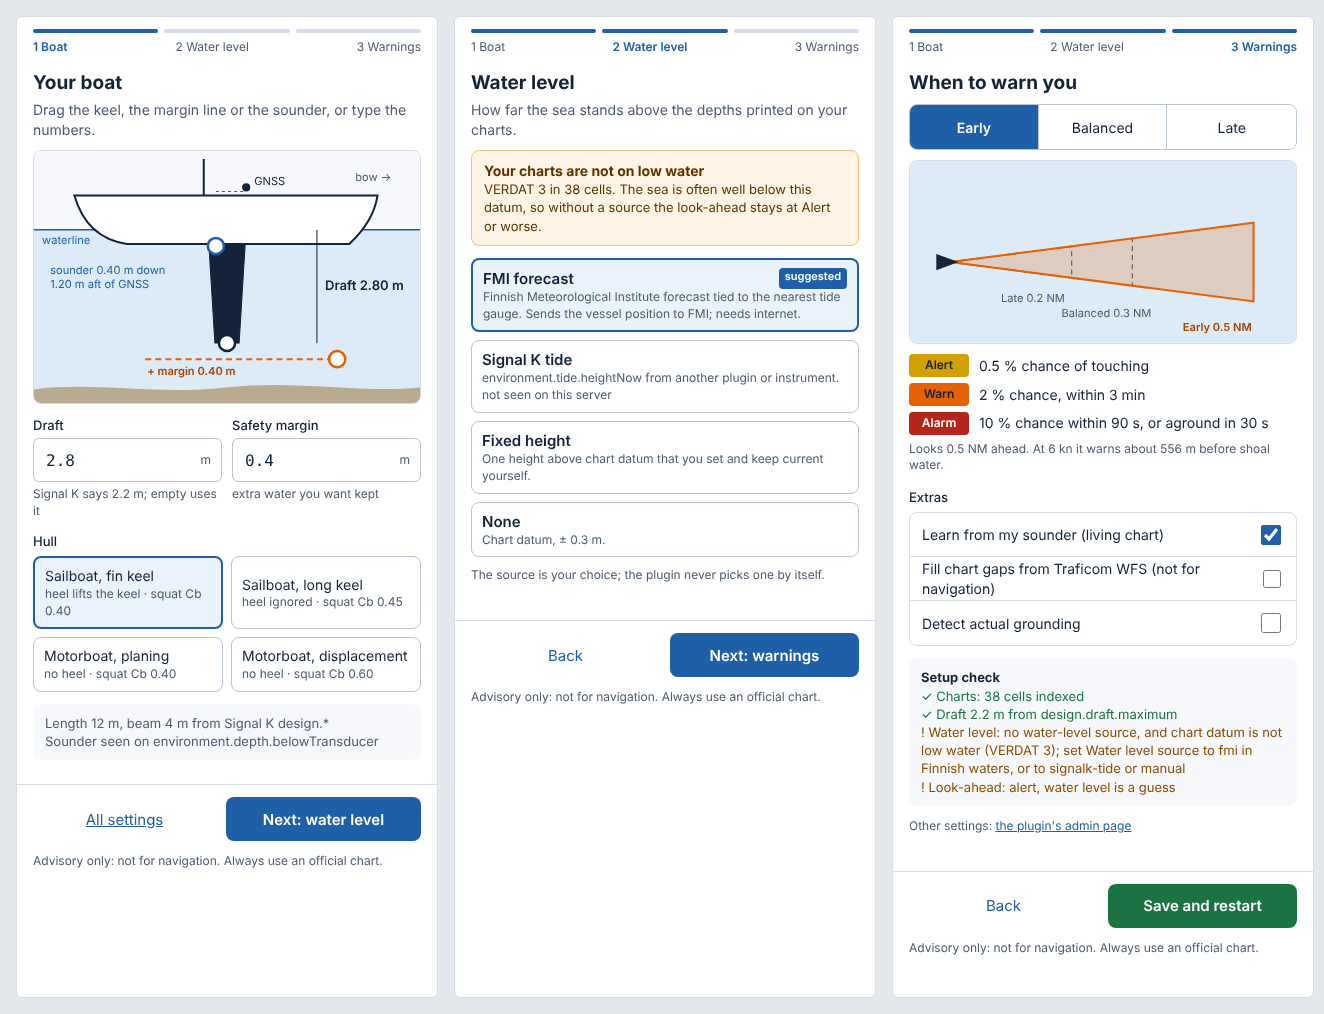
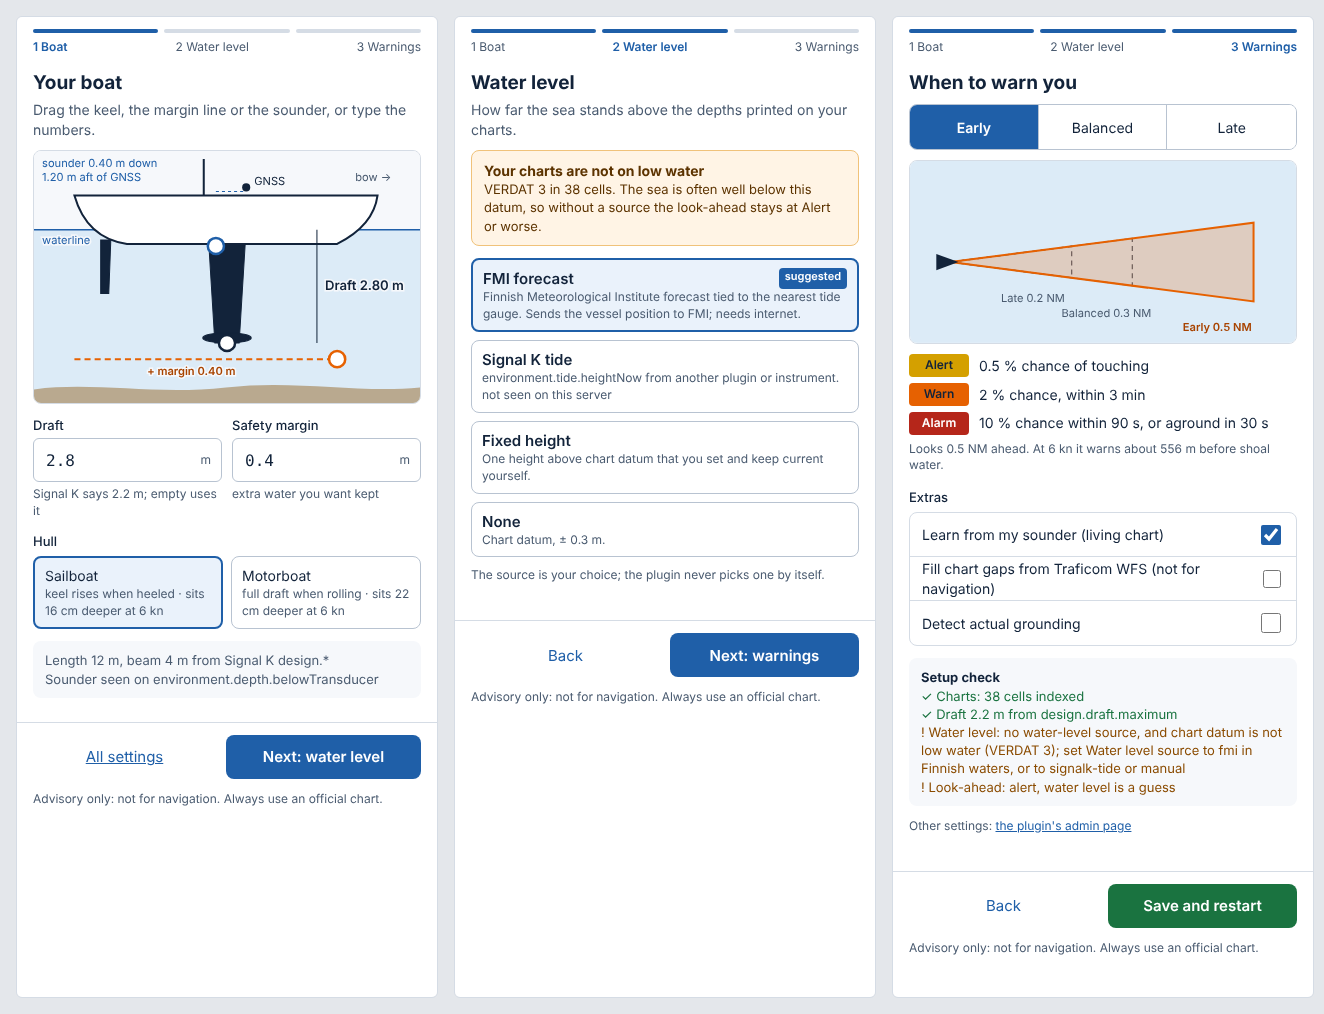
Offer two hulls, sailboat and motorboat, and say what they change
The model reads two things of a hull: squat Cb and whether heel lifts the
keel. Fin and long keels both rise with heel and differ by 2 cm of squat
at 6 kn, planing and displacement motorboats by Cb alone, so the four
choices become two. Each takes the more cautious value of the pair it
replaces: sailboat Cb 0.45 with heel lifting the keel, motorboat Cb 0.60
with heel ignored. Not set stays Cb 0.40 and no heel.

The setup panel's buttons say "keel rises when heeled" or "full draft when
rolling" and how many centimetres deeper the hull sits at 6 kn, and the
README explains heel and squat and why no planing lift is subtracted.

Claude-Session: https://claude.ai/code/session_019coAYjPbrjGTLyXvTkhftf

diff --git a/public/setup.js b/public/setup.js
@@ -140,25 +140,7 @@ function hullShape(hull, keelY, known) {
   const hb = VIEW.hullBottom;
   const mast = h("svg:line", { x1: 168, y1: 8, x2: 168, y2: VIEW.deck, stroke: "var(--ink)", "stroke-width": 2 });
   const rudder = (x, bottom) => h("svg:path", { d: `M${x - 4} ${hb - 4} L${x + 6} ${hb - 4} L${x + 4} ${bottom} L${x - 4} ${bottom} Z`, ...solid });
-  if (hull === "longKeel") {
-    return {
-      keelX: 190,
-      parts: [mast, hullBody(hb, false), h("svg:path", { d: `M100 ${hb} L265 ${hb} L240 ${keelY} L104 ${keelY} Z`, ...solid })]
-    };
-  }
-  if (hull === "planing") {
-    const bottom = Math.max(VIEW.water + 8, VIEW.water + (keelY - VIEW.water) * 0.45);
-    return {
-      keelX: 58,
-      parts: [
-        hullBody(bottom, true),
-        h("svg:path", { d: `M196 ${VIEW.deck} L214 26 L252 26 L262 ${VIEW.deck}`, fill: "none", stroke: "var(--ink)", "stroke-width": 2 }),
-        h("svg:path", { d: `M53 ${bottom} L63 ${bottom} L62 ${keelY - 10} L54 ${keelY - 10} Z`, ...solid }),
-        h("svg:ellipse", { cx: 58, cy: keelY - 5, rx: 4, ry: 5, ...solid })
-      ]
-    };
-  }
-  if (hull === "displacement") {
+  if (hull === "motorboat") {
     const bottom = Math.max(hb, VIEW.water + (keelY - VIEW.water) * 0.7);
     return {
       keelX: 96,
@@ -171,17 +153,12 @@ function hullShape(hull, keelY, known) {
     };
   }
   const fin = h("svg:path", { d: `M173 ${hb} L209 ${hb} L203 ${keelY} L179 ${keelY} Z`, ...solid });
-  // A fin keel carries a bulb; with no hull chosen the fin is drawn plain.
-  const bulb = hull === "finKeel" ? h("svg:ellipse", { cx: 191, cy: keelY - 5, rx: 24, ry: 5, ...solid }) : null;
+  // A sailboat's keel carries a bulb; with no hull chosen the fin is drawn plain.
+  const bulb = hull === "sailboat" ? h("svg:ellipse", { cx: 191, cy: keelY - 5, rx: 24, ry: 5, ...solid }) : null;
   return { keelX: 191, parts: [mast, hullBody(hb, false), fin, bulb, rudder(70, hb + (keelY - hb) * 0.5)] };
 }
 
-const HULL_NAMES = {
-  finKeel: "fin-keel sailboat",
-  longKeel: "long-keel sailboat",
-  planing: "planing motorboat",
-  displacement: "displacement motorboat"
-};
+const HULL_NAMES = { sailboat: "sailboat", motorboat: "motorboat" };
 
 function boatSvg() {
   const b = boatValues();
@@ -338,10 +315,8 @@ function numberField(id, label, path, placeholder, hint) {
 }
 
 const HULL_TEXT = {
-  finKeel: ["Sailboat, fin keel", "heel lifts the keel"],
-  longKeel: ["Sailboat, long keel", "heel ignored"],
-  planing: ["Motorboat, planing", "no heel"],
-  displacement: ["Motorboat, displacement", "no heel"]
+  sailboat: ["Sailboat", "keel rises when heeled"],
+  motorboat: ["Motorboat", "full draft when rolling"]
 };
 
 function boatStep() {
@@ -373,7 +348,8 @@ function boatStep() {
           "button",
           { type: "button", "aria-pressed": hull === id, onclick: () => edit("vessel.hull", hull === id ? "none" : id) },
           title,
-          h("small", {}, `${heel} · squat Cb ${presets[id].blockCoefficient.toFixed(2)}`)
+          // Squat in words: S = Cb·V²/100 m at V knots, here at the reference speed.
+          h("small", {}, `${heel} · sits ${Math.round(presets[id].blockCoefficient * REFERENCE_KNOTS ** 2)} cm deeper at ${REFERENCE_KNOTS} kn`)
         )
       )
     ),

diff --git a/__tests__/settings-service.test.ts b/__tests__/settings-service.test.ts
@@ -37,7 +37,7 @@ describe("settings patch", () => {
         {
           cellsDir: "/charts",
           warningStyle: "early",
-          vessel: { draft: 2.1, hull: "longKeel", margin: null },
+          vessel: { draft: 2.1, hull: "sailboat", margin: null },
           waterLevel: { source: "fmi" },
           livechart: { enabled: true, transducerDepth: 0.4 },
           mooringZones: ["home"]
@@ -62,7 +62,7 @@ describe("settings patch", () => {
     ).toEqual([
       "colour is not a setting",
       "vessel.draft must be a number",
-      "vessel.hull must be one of none, finKeel, longKeel, planing, displacement",
+      "vessel.hull must be one of none, sailboat, motorboat",
       "waterLevel must be an object",
       "warningStyle must be one of early, balanced, late",
       "wfs.enabled must be a boolean"
@@ -72,8 +72,8 @@ describe("settings patch", () => {
   test("objects merge field by field, null removes a field, arrays are replaced", () => {
     const base = { vessel: { draft: 2, margin: 0.3 }, mooringZones: ["a", "b"], cellsDir: "/c" };
     expect(
-      applyPatch(base, { vessel: { draft: null, hull: "planing" }, mooringZones: ["c"] })
-    ).toEqual({ vessel: { margin: 0.3, hull: "planing" }, mooringZones: ["c"], cellsDir: "/c" });
+      applyPatch(base, { vessel: { draft: null, hull: "motorboat" }, mooringZones: ["c"] })
+    ).toEqual({ vessel: { margin: 0.3, hull: "motorboat" }, mooringZones: ["c"], cellsDir: "/c" });
     expect(base.vessel).toEqual({ draft: 2, margin: 0.3 });
   });
 });
@@ -89,12 +89,12 @@ describe("saving settings", () => {
     const s = state({ cellsDir: "/c", configVersion: 2, vessel: { draft: 2 } }, (c) =>
       restarts.push(c)
     );
-    const reply = saveSettings({ vessel: { hull: "finKeel" } }, s, fail, (f) => later.push(f));
+    const reply = saveSettings({ vessel: { hull: "sailboat" } }, s, fail, (f) => later.push(f));
     expect(reply).toEqual({ status: 202, body: { restarting: true } });
     expect(restarts).toEqual([]);
     later.forEach((f) => f());
     expect(restarts).toEqual([
-      { cellsDir: "/c", configVersion: 2, vessel: { draft: 2, hull: "finKeel" } }
+      { cellsDir: "/c", configVersion: 2, vessel: { draft: 2, hull: "sailboat" } }
     ]);
   });
 

diff --git a/src/config-presets.ts b/src/config-presets.ts
@@ -60,7 +60,7 @@ export const WARNING_PRESETS: Record<WarningStyle, WarningPreset> = {
   }
 };
 
-export const HULLS = ["finKeel", "longKeel", "planing", "displacement"] as const;
+export const HULLS = ["sailboat", "motorboat"] as const;
 export type Hull = (typeof HULLS)[number];
 
 export interface HullPreset {
@@ -69,12 +69,16 @@ export interface HullPreset {
   keel: "none" | "fin";
 }
 
-/** Ignoring heel keeps the full draft, which errs toward more caution than a fin keel. */
+/**
+ * The model reads two things of a hull: squat Cb and whether heel lifts the
+ * keel. Any keel whose deepest point is on the centreline rises with heel,
+ * fin or long, and Cb 0.45 is the higher of the two keels'. A motorboat takes
+ * the displacement hull's Cb 0.60, more squat than a planing hull, and its
+ * heel is ignored, which keeps the full draft.
+ */
 export const HULL_PRESETS: Record<Hull, HullPreset> = {
-  finKeel: { blockCoefficient: 0.4, keel: "fin" },
-  longKeel: { blockCoefficient: 0.45, keel: "none" },
-  planing: { blockCoefficient: 0.4, keel: "none" },
-  displacement: { blockCoefficient: 0.6, keel: "none" }
+  sailboat: { blockCoefficient: 0.45, keel: "fin" },
+  motorboat: { blockCoefficient: 0.6, keel: "none" }
 };
 
 /** Squat and heel with no hull chosen: the earlier defaults. */

diff --git a/__tests__/config-presets.test.ts b/__tests__/config-presets.test.ts
@@ -80,12 +80,22 @@ describe("hull", () => {
     expect(c.dynamics.heel).toEqual({ kind: HULL_PRESETS[hull].keel });
   });
 
-  test("only a fin keel lifts the keel with heel", () => {
-    expect(HULLS.filter((h) => HULL_PRESETS[h].keel === "fin")).toEqual(["finKeel"]);
+  test("a sailboat's keel rises with heel; a motorboat keeps its full draft and squats more", () => {
+    expect(HULL_PRESETS).toEqual({
+      sailboat: { blockCoefficient: 0.45, keel: "fin" },
+      motorboat: { blockCoefficient: 0.6, keel: "none" }
+    });
+  });
+
+  // Each choice squats at least as much as the version 1 default, Cb 0.40.
+  test("no hull squats less than not setting one", () => {
+    expect(HULLS.map((h) => HULL_PRESETS[h].blockCoefficient >= 0.4)).toEqual(
+      HULLS.map(() => true)
+    );
   });
 
   test("expert block coefficient and keel override the hull", () => {
-    const c = parseConfig({ vessel: { hull: "finKeel", blockCoefficient: 0.7, keel: "none" } });
+    const c = parseConfig({ vessel: { hull: "sailboat", blockCoefficient: 0.7, keel: "none" } });
     expect(c.dynamics).toMatchObject({ blockCoefficient: 0.7, heel: { kind: "none" } });
   });
 });

diff --git a/src/config-schema.ts b/src/config-schema.ts
@@ -58,17 +58,15 @@ const VESSEL_ESSENTIAL = {
     },
     margin: { type: "number", title: "Safety margin under the keel (m)", default: 0 },
     // The form fills an empty field with the first choice, so "none" comes first and is the
-    // default: a fin keel there would lift the keel with heel on every saved configuration.
+    // default: a sailboat there would lift the keel with heel on every saved configuration.
     hull: {
       type: "string",
       title: "Hull (sets squat and heel)",
       default: "none",
       oneOf: [
         { const: "none", title: "Not set: squat Cb 0.4, heel ignored" },
-        { const: "finKeel", title: "Sailboat, fin keel" },
-        { const: "longKeel", title: "Sailboat, long keel" },
-        { const: "planing", title: "Motorboat, planing" },
-        { const: "displacement", title: "Motorboat, displacement" }
+        { const: "sailboat", title: "Sailboat: keel rises when heeled; squat Cb 0.45" },
+        { const: "motorboat", title: "Motorboat: full draft when rolling; squat Cb 0.60" }
       ]
     }
   }

diff --git a/__tests__/settings-plugin.test.ts b/__tests__/settings-plugin.test.ts
@@ -89,7 +89,7 @@ describe("settings in the running plugin", () => {
     try {
       const reply = await r.post("/v1/settings", {
         warningStyle: "early",
-        vessel: { hull: "planing" }
+        vessel: { hull: "motorboat" }
       });
       expect(reply.code).toBe(202);
       await new Promise((resolve) => setImmediate(resolve));
@@ -99,7 +99,7 @@ describe("settings in the running plugin", () => {
           cellsDir: CELLS,
           leafZoom: 18,
           warningStyle: "early",
-          vessel: { hull: "planing" }
+          vessel: { hull: "motorboat" }
         }
       ]);
     } finally {

diff --git a/__tests__/ext/setup-model.test.ts b/__tests__/ext/setup-model.test.ts
@@ -23,9 +23,9 @@ describe("setup edits", () => {
   });
 
   test("leaves the patch it was given unchanged", () => {
-    const p = { vessel: { hull: "planing" } };
+    const p = { vessel: { hull: "motorboat" } };
     M.setEdit(p, saved, "vessel.margin", 0.5);
-    expect(p).toEqual({ vessel: { hull: "planing" } });
+    expect(p).toEqual({ vessel: { hull: "motorboat" } });
   });
 
   test("typed metres take a comma or a point; anything else is no number", () => {

diff --git a/__tests__/config-migrate.test.ts b/__tests__/config-migrate.test.ts
@@ -98,7 +98,7 @@ describe("configuration migration", () => {
     const raw = {
       warningStyle: "late",
       lookahead: { warnRisk: 0.05 },
-      vessel: { hull: "planing", keel: "none" }
+      vessel: { hull: "motorboat", keel: "none" }
     };
     expect(migrateConfig(raw).config).toMatchObject(raw);
   });

diff --git a/README.md b/README.md
@@ -143,13 +143,13 @@ There are two places to set the plugin up, and both write the same configuration
 
 ![The setup steps: boat, water level and warnings](docs/images/how-it-works/setup-panel.png)
 
-| Setting             | What it does                                                                                                                                                                                                                                                                                                   |
-| ------------------- | -------------------------------------------------------------------------------------------------------------------------------------------------------------------------------------------------------------------------------------------------------------------------------------------------------------- |
-| ENC cells directory | where the `.000` cells are                                                                                                                                                                                                                                                                                     |
-| Boat                | draft (empty uses Signal K `design.draft.maximum`); safety margin under the keel (0 m); hull, which sets squat and heel: fin keel (Cb 0.40, heel lifts the keel), long keel (0.45), planing motorboat (0.40) or displacement motorboat (0.60), the last three ignoring heel; not set means Cb 0.40 and no heel |
-| Water level         | source (`none`, `manual`, `signalk-tide`, `fmi`, see below); only the chosen source's fields are shown                                                                                                                                                                                                         |
-| Warnings            | Early, Balanced or Late, in the table below                                                                                                                                                                                                                                                                    |
-| Optional features   | living chart (own soundings), Traficom WFS depths, grounding detector; each off until enabled                                                                                                                                                                                                                  |
+| Setting             | What it does                                                                                                                                                                                   |
+| ------------------- | ---------------------------------------------------------------------------------------------------------------------------------------------------------------------------------------------- |
+| ENC cells directory | where the `.000` cells are                                                                                                                                                                     |
+| Boat                | draft (empty uses Signal K `design.draft.maximum`); safety margin under the keel (0 m); hull, sailboat or motorboat, which sets heel and squat (below); not set means Cb 0.40 and heel ignored |
+| Water level         | source (`none`, `manual`, `signalk-tide`, `fmi`, see below); only the chosen source's fields are shown                                                                                         |
+| Warnings            | Early, Balanced or Late, in the table below                                                                                                                                                    |
+| Optional features   | living chart (own soundings), Traficom WFS depths, grounding detector; each off until enabled                                                                                                  |
 
 | Warning style      | Looks ahead | Alert at | Warn at, within | Alarm at, within | Alarm on negative mean UKC |
 | ------------------ | ----------- | -------- | --------------- | ---------------- | -------------------------- |
@@ -158,6 +158,20 @@ There are two places to set the plugin up, and both write the same configuration
 | Late               | 0.2 NM      | 2 %      | 10 %, 90 s      | 30 %, 45 s       | within 30 s                |
 
 Early is at least as cautious as Balanced in every column, and Balanced as Late.
+
+The hull sets two corrections to the draft. **Heel**: a boat leaning over lifts its keel, since
+the keel tip swings up and sideways; the draft shrinks by draft × (1 − cos heel), 13 cm for a
+2.2 m keel at 20°. The plugin takes the least roll of the last 10 s, so a boat rolling through
+upright gets no lift. **Squat**: a hull under way sits deeper in the water, by Cb × V² / 100 m
+at V knots (Barrass), where Cb is the block coefficient, how full the hull is below the water.
+A planing boat rises at planing speed, but its drive or propeller stays the deepest point and it
+squats most just before planing, so no lift is subtracted.
+
+| Hull      | Heel                   | Squat at 6 kn |
+| --------- | ---------------------- | ------------- |
+| Sailboat  | keel rises when heeled | 16 cm         |
+| Motorboat | full draft kept        | 22 cm         |
+| Not set   | full draft kept        | 14 cm         |
 
 Expert settings, with their defaults:
 

diff --git a/docs/DEVELOPMENT-PLAN.md b/docs/DEVELOPMENT-PLAN.md
@@ -775,11 +775,13 @@ table its largest change over the range. Roll above 60° or stale is no roll, wh
 keel no lift and a table its largest change.
 
 **Hull presets (configuration v2).** The configuration names a hull instead of asking for Cb
-and a heel model: fin keel (Cb 0.40, fin heel), long keel (0.45, no heel), planing motorboat
-(0.40, no heel) or displacement motorboat (0.60, no heel). Not set is Cb 0.40 and no heel, the
-version 1 defaults, and is the form's default and first choice, since the admin form fills an
-empty choice with the first one and a fin keel there would lift every saved keel with heel. An
-expert `blockCoefficient` or `keel` overrides the hull.
+and a heel model, since those are the two things the model reads of it: sailboat (Cb 0.45, fin
+heel) or motorboat (Cb 0.60, no heel). Any keel whose deepest point is on the centreline rises
+with heel, fin or long, so one sailboat choice covers both, with the long keel's higher Cb. A
+motorboat takes the displacement hull's Cb, more squat than a planing hull's. Not set is Cb 0.40
+and no heel, the version 1 defaults, and is the form's default and first choice, since the
+admin form fills an empty choice with the first one and a sailboat there would lift every
+saved keel with heel. An expert `blockCoefficient` or `keel` overrides the hull.
 
 ### 4.7 Risk model (core math)
 

diff --git a/CHANGELOG.md b/CHANGELOG.md
@@ -14,8 +14,8 @@ All notable changes to signalk-underkeel are documented here.
   save is a patch checked against the schema, and the server's restart callback writes it and
   restarts the plugin.
 - Warning styles Early, Balanced and Late set the look-ahead thresholds, windows and distance;
-  Balanced is the earlier default. A hull choice (fin keel, long keel, planing or displacement
-  motorboat) sets squat and heel. An expert value overrides its field.
+  Balanced is the earlier default. A hull choice, sailboat or motorboat, sets squat and heel.
+  An expert value overrides its field.
 - The admin form asks for the cells directory, draft, margin, hull, water-level source,
   warning style and optional features; **Show expert settings** opens 29 more fields and a
   feature's fields appear once it is enabled. Its description lists the setup check, and the
